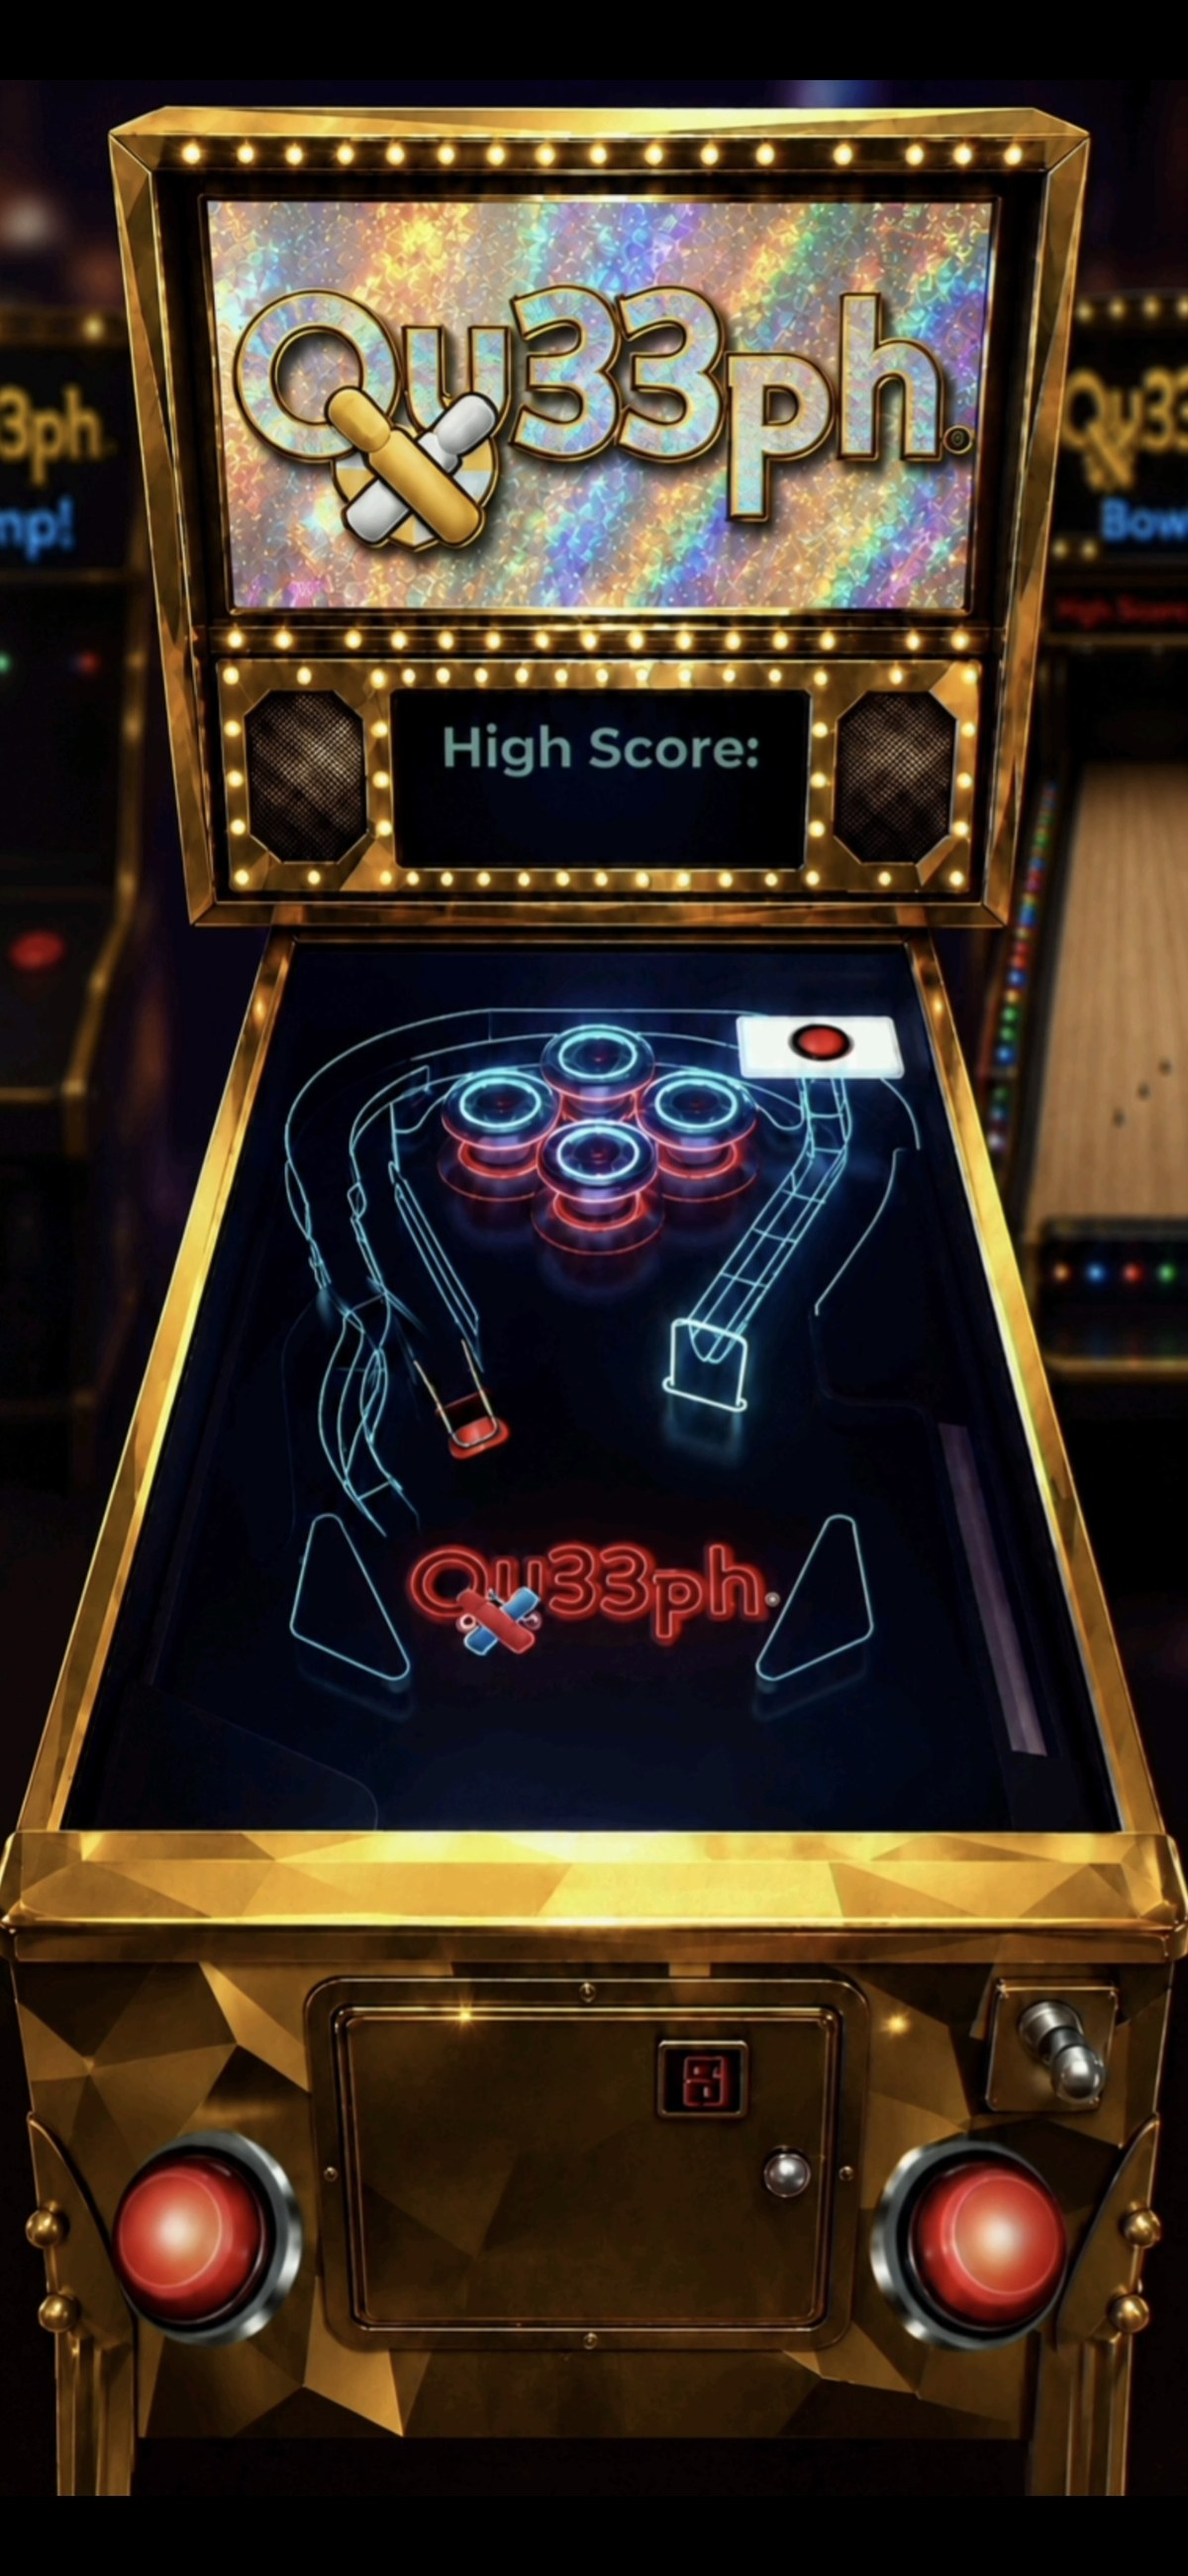
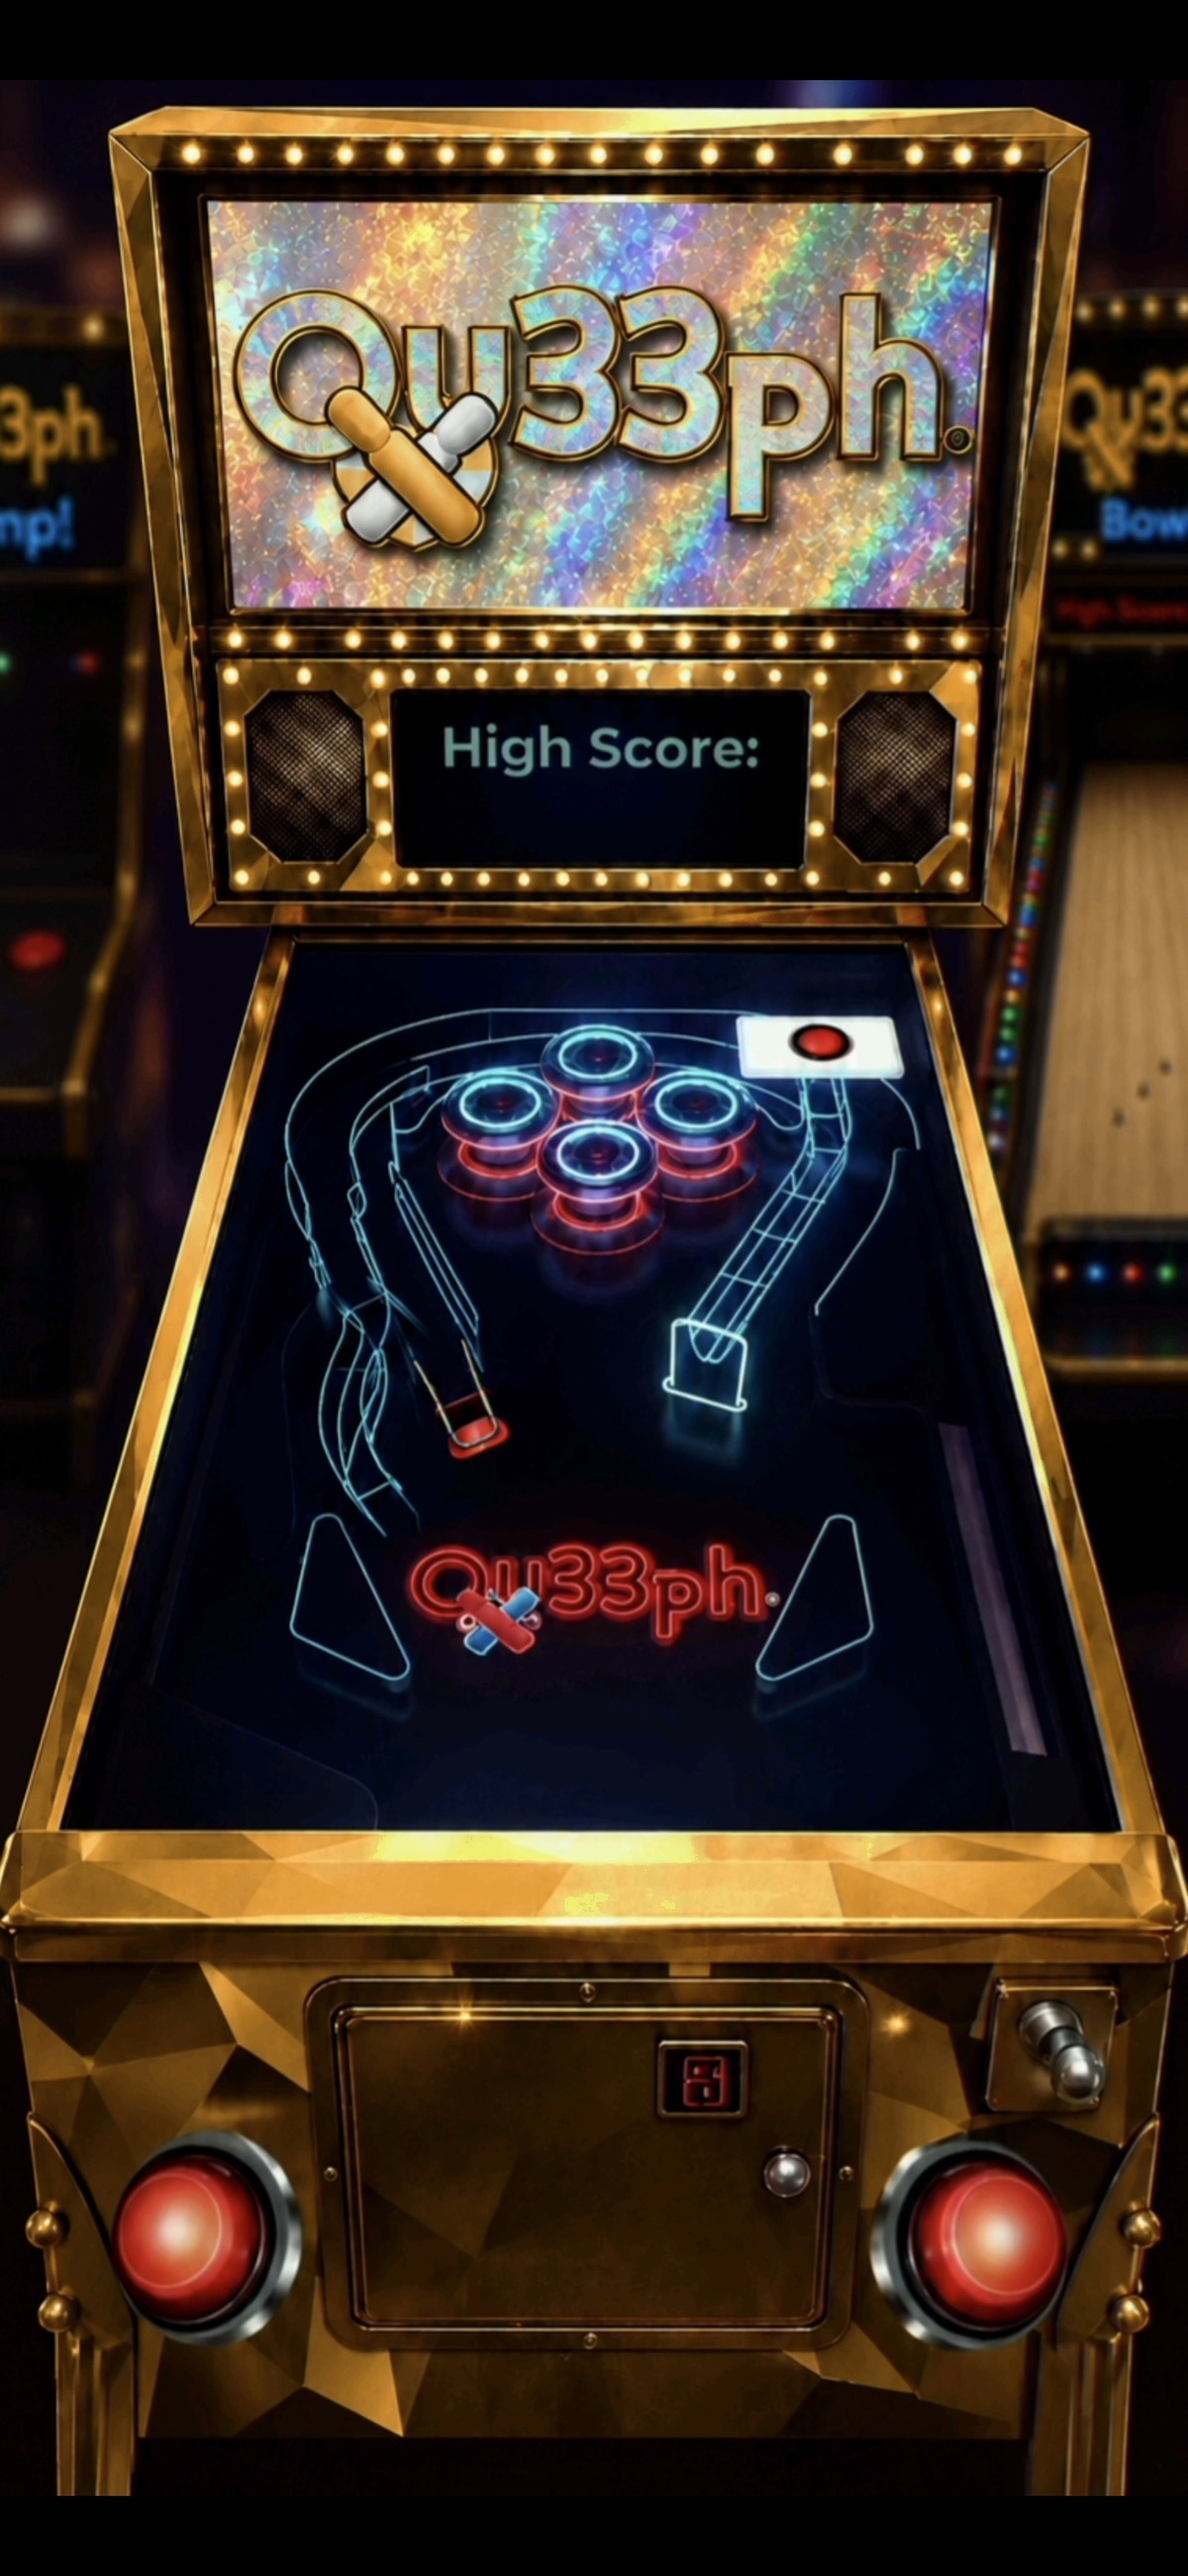
Add files via upload
updated overlays

diff --git a/index.html b/index.html
@@ -692,7 +692,7 @@
   </style>
 </head>
 <body>
-<div id="verBadge" style="position:fixed;bottom:6px;right:8px;font-family:Helvetica,Arial,sans-serif;font-size:10px;color:#444;z-index:99999;letter-spacing:1px;pointer-events:none;">v375</div>
+<div id="verBadge" style="position:fixed;bottom:6px;right:8px;font-family:Helvetica,Arial,sans-serif;font-size:10px;color:#444;z-index:99999;letter-spacing:1px;pointer-events:none;">v377</div>
 
 <canvas id="game"></canvas>
 
@@ -739,8 +739,8 @@
 </div>
 
 <div id="arcadeMenu" style="display:none; position:absolute;top:0;left:0;width:100%;height:100%;background:#05050a;flex-direction:column;align-items:center;justify-content:center;z-index:100;box-sizing:border-box;padding:20px;">
-  <img id="arcadeLogo" src="arcadelogo.png?v=375" alt="Qu33ph Arcade"
-       style="width:min(300px,72vw);height:auto;display:block;margin:0 auto 12px;pointer-events:none;"
+  <img id="arcadeLogo" src="arcadelogo.png?v=377" alt="Qu33ph Arcade"
+       style="width:min(248px,56vw);height:auto;display:block;margin:4px auto 12px;pointer-events:none;"
        onerror="this.style.display='none'">
   <div class="cab-row">
     <div class="cab-card" id="cabJump" onclick="launchPfGame()"><img src="qu33phjump.png" onerror="this.style.opacity=0.2"><div class="cab-label">QU33PH JUMP</div></div>
@@ -757,7 +757,7 @@
 </div>
 
 <div id="pinballScreen" oncontextmenu="return false" style="display:none;position:absolute;top:0;left:0;width:100%;height:100%;background:#0a0818;z-index:110;overflow:hidden;touch-action:none;user-select:none;-webkit-user-select:none;">
-  <img id="pinballBg" src="pinball.jpg?v=362" draggable="false" style="position:absolute;top:0;left:0;width:100%;height:100%;object-fit:contain;pointer-events:none;" onerror="this.style.opacity=0.12">
+  <img id="pinballBg" src="pinball.jpg?v=377" draggable="false" style="position:absolute;top:0;left:0;width:100%;height:100%;object-fit:contain;pointer-events:none;" onerror="this.style.opacity=0.12">
   <div id="pbBenday"></div>
   <canvas id="pinballCanvas" style="position:absolute;top:0;left:0;display:block;"></canvas>
   <button class="back-tl" id="pbPauseBtn" onclick="pbBack()" style="position:absolute;top:8px;left:10px;z-index:6;background:rgba(8,9,16,0.82);border:1px solid rgba(255,255,255,0.4);color:#fff;font-family:Helvetica,Arial,sans-serif;font-size:12px;font-weight:bold;letter-spacing:1px;padding:6px 12px;border-radius:8px;">← BACK</button>
@@ -885,7 +885,7 @@
     <button onclick="returnToArcade()" class="mk-btn flip">RETURN TO ARCADE</button>
     <button onclick="arcadeToMenu()" class="mk-btn">MAIN MENU</button>
   </div>
-  <img id="platformerBg" src="platformeroverlay.jpg?v=375" draggable="false" style="position:absolute;top:0;left:0;width:100%;height:100%;object-fit:contain;pointer-events:none;user-select:none;-webkit-user-select:none;-webkit-touch-callout:none;" onerror="this.style.opacity=0.15">
+  <img id="platformerBg" src="platformeroverlay.jpg?v=377" draggable="false" style="position:absolute;top:0;left:0;width:100%;height:100%;object-fit:contain;pointer-events:none;user-select:none;-webkit-user-select:none;-webkit-touch-callout:none;" onerror="this.style.opacity=0.15">
   <canvas id="platformerCanvas" style="position:absolute;background:#0a0f1e;border-radius:2px;"></canvas>
   <div id="pfLeftBtn" style="position:absolute;border-radius:50%;z-index:4;-webkit-tap-highlight-color:transparent;user-select:none;-webkit-user-select:none;-webkit-touch-callout:none;touch-action:none;touch-action:none;"></div>
   <div id="pfRightBtn" style="position:absolute;border-radius:50%;z-index:4;-webkit-tap-highlight-color:transparent;user-select:none;-webkit-user-select:none;-webkit-touch-callout:none;touch-action:none;touch-action:none;"></div>
@@ -4779,15 +4779,15 @@ function showArcadeMenu(){
 function arcadeBack(){ document.getElementById("arcadeMenu").style.display="none"; showTitle(); }
 function arcadeComingSoon(){ try{ haptic([20,30,20]); }catch(e){} }
 function launchPfGame(){ document.getElementById("arcadeMenu").style.display="none"; showCharSelect(); }
-function launchBowling(){ try{pfMusicStop();}catch(e){} document.getElementById("arcadeMenu").style.display="none"; var s=document.getElementById("bowlingScreen"); s.style.display="block"; var f=document.getElementById("bowlingFrame"); var _t=(typeof styleOf==="function"?styleOf():currentTheme); f.setAttribute("src","bowling.html?v=375&theme="+encodeURIComponent(_t)); arcadeGame="bowling"; try{ haptic(10); }catch(e){} }
+function launchBowling(){ try{pfMusicStop();}catch(e){} document.getElementById("arcadeMenu").style.display="none"; var s=document.getElementById("bowlingScreen"); s.style.display="block"; var f=document.getElementById("bowlingFrame"); var _t=(typeof styleOf==="function"?styleOf():currentTheme); f.setAttribute("src","bowling.html?v=377&theme="+encodeURIComponent(_t)); arcadeGame="bowling"; try{ haptic(10); }catch(e){} }
 function bowlingBack(){ var f=document.getElementById("bowlingFrame"); try{ f.setAttribute("src","about:blank"); }catch(e){} document.getElementById("bowlingScreen").style.display="none"; showArcadeMenu(); }
 function launchFidget(){ try{pfMusicStop();}catch(e){} document.getElementById("arcadeMenu").style.display="none"; var s=document.getElementById("fidgetScreen"); s.style.display="block"; var f=document.getElementById("fidgetFrame"); var _t=(typeof styleOf==="function"?styleOf():currentTheme); f.setAttribute("src","fidget.html?theme="+encodeURIComponent(_t)); arcadeGame="fidget"; try{ haptic(10); }catch(e){} }
 function fidgetBack(){ var f=document.getElementById("fidgetFrame"); try{ f.setAttribute("src","about:blank"); }catch(e){} document.getElementById("fidgetScreen").style.display="none"; showArcadeMenu(); }
-function launchMini(){ try{pfMusicStop();}catch(e){} document.getElementById("arcadeMenu").style.display="none"; document.getElementById("miniScreen").style.display="block"; var f=document.getElementById("miniFrame"); var _t=(typeof styleOf==="function"?styleOf():currentTheme); f.setAttribute("src","mini.html?v=375&theme="+encodeURIComponent(_t)); arcadeGame="mini"; try{ haptic(10); }catch(e){} }
+function launchMini(){ try{pfMusicStop();}catch(e){} document.getElementById("arcadeMenu").style.display="none"; document.getElementById("miniScreen").style.display="block"; var f=document.getElementById("miniFrame"); var _t=(typeof styleOf==="function"?styleOf():currentTheme); f.setAttribute("src","mini.html?v=377&theme="+encodeURIComponent(_t)); arcadeGame="mini"; try{ haptic(10); }catch(e){} }
 function miniBack(){ var f=document.getElementById("miniFrame"); try{ f.setAttribute("src","about:blank"); }catch(e){} document.getElementById("miniScreen").style.display="none"; showArcadeMenu(); }
-function launchStack(){ try{pfMusicStop();}catch(e){} document.getElementById("arcadeMenu").style.display="none"; var sc=document.getElementById("stackScreen"); sc.style.display="block"; var f=document.getElementById("stackFrame"); var _t=(typeof styleOf==="function"?styleOf():currentTheme); f.setAttribute("src","stack.html?v=375&theme="+encodeURIComponent(_t)); arcadeGame="stack"; try{ haptic(10); }catch(e){} }
+function launchStack(){ try{pfMusicStop();}catch(e){} document.getElementById("arcadeMenu").style.display="none"; var sc=document.getElementById("stackScreen"); sc.style.display="block"; var f=document.getElementById("stackFrame"); var _t=(typeof styleOf==="function"?styleOf():currentTheme); f.setAttribute("src","stack.html?v=377&theme="+encodeURIComponent(_t)); arcadeGame="stack"; try{ haptic(10); }catch(e){} }
 function stackBack(){ var f=document.getElementById("stackFrame"); try{ f.setAttribute("src","about:blank"); }catch(e){} document.getElementById("stackScreen").style.display="none"; showArcadeMenu(); }
-function launchSkee(){ try{pfMusicStop();}catch(e){} document.getElementById("arcadeMenu").style.display="none"; var sc=document.getElementById("skeeScreen"); sc.style.display="block"; var f=document.getElementById("skeeFrame"); var _t=(typeof styleOf==="function"?styleOf():currentTheme); f.setAttribute("src","qu33phball.html?v=375&theme="+encodeURIComponent(_t)); arcadeGame="skee"; try{ haptic(10); }catch(e){} }
+function launchSkee(){ try{pfMusicStop();}catch(e){} document.getElementById("arcadeMenu").style.display="none"; var sc=document.getElementById("skeeScreen"); sc.style.display="block"; var f=document.getElementById("skeeFrame"); var _t=(typeof styleOf==="function"?styleOf():currentTheme); f.setAttribute("src","qu33phball.html?v=377&theme="+encodeURIComponent(_t)); arcadeGame="skee"; try{ haptic(10); }catch(e){} }
 function skeeBack(){ var f=document.getElementById("skeeFrame"); try{ f.setAttribute("src","about:blank"); }catch(e){} document.getElementById("skeeScreen").style.display="none"; showArcadeMenu(); }
 function orientFlipIcon(im){
   im = im || document.querySelector("#cabFlip img"); if(!im) return;
@@ -4798,9 +4798,9 @@ function orientFlipIcon(im){
   };
   if(im.complete && im.naturalWidth) set(); else im.onload=set;
 }
-function launchFlip(){ try{pfMusicStop();}catch(e){} document.getElementById("arcadeMenu").style.display="none"; var sc=document.getElementById("flipScreen"); sc.style.display="block"; var f=document.getElementById("flipFrame"); var _t=(typeof styleOf==="function"?styleOf():currentTheme); f.setAttribute("src","flip.html?v=375&theme="+encodeURIComponent(_t)); arcadeGame="flip"; try{ haptic(10); }catch(e){} }
+function launchFlip(){ try{pfMusicStop();}catch(e){} document.getElementById("arcadeMenu").style.display="none"; var sc=document.getElementById("flipScreen"); sc.style.display="block"; var f=document.getElementById("flipFrame"); var _t=(typeof styleOf==="function"?styleOf():currentTheme); f.setAttribute("src","flip.html?v=377&theme="+encodeURIComponent(_t)); arcadeGame="flip"; try{ haptic(10); }catch(e){} }
 function flipBack(){ var f=document.getElementById("flipFrame"); try{ f.setAttribute("src","about:blank"); }catch(e){} document.getElementById("flipScreen").style.display="none"; showArcadeMenu(); }
-function launchDozer(){ try{pfMusicStop();}catch(e){} document.getElementById("arcadeMenu").style.display="none"; var sc=document.getElementById("dozerScreen"); sc.style.display="block"; var f=document.getElementById("dozerFrame"); var _t=(typeof styleOf==="function"?styleOf():currentTheme); f.setAttribute("src","dozer.html?v=375&theme="+encodeURIComponent(_t)); arcadeGame="dozer"; try{ haptic(10); }catch(e){} }
+function launchDozer(){ try{pfMusicStop();}catch(e){} document.getElementById("arcadeMenu").style.display="none"; var sc=document.getElementById("dozerScreen"); sc.style.display="block"; var f=document.getElementById("dozerFrame"); var _t=(typeof styleOf==="function"?styleOf():currentTheme); f.setAttribute("src","dozer.html?v=377&theme="+encodeURIComponent(_t)); arcadeGame="dozer"; try{ haptic(10); }catch(e){} }
 function dozerBack(){ var f=document.getElementById("dozerFrame"); try{ f.setAttribute("src","about:blank"); }catch(e){} document.getElementById("dozerScreen").style.display="none"; showArcadeMenu(); }
 function showCharSelect(){ pfMusicStop(); showPlatformer("charselect"); }
 function csNav(dir){ pfCharIdx=(pfCharIdx+dir+PF_CHARS.length)%PF_CHARS.length; try{haptic(6);}catch(e){} }
@@ -4970,7 +4970,7 @@ function showPlatformer(game){
   arcadeGame = game||"jump";
   if(arcadeGame!=="jump") pfMusicStop();
   var nav = (arcadeGame==="levelselect"||arcadeGame==="binder"||arcadeGame==="fusepick"||arcadeGame==="jumpmenu"||arcadeGame==="charselect");
-  var _bg=document.getElementById("platformerBg"); if(_bg) _bg.src = (arcadeGame==="dream"||(nav&&arcadeGame!=="jumpmenu"&&arcadeGame!=="charselect"))?"dreamlingoverlay.png":"platformeroverlay.jpg?v=375";
+  var _bg=document.getElementById("platformerBg"); if(_bg) _bg.src = (arcadeGame==="dream"||(nav&&arcadeGame!=="jumpmenu"&&arcadeGame!=="charselect"))?"dreamlingoverlay.png":"platformeroverlay.jpg?v=377";
   document.getElementById("arcadeMenu").style.display="none";
   document.getElementById("titleScreen").style.display="none";
   var tc=document.getElementById("titleCoins"); if(tc) tc.style.display="none";
@@ -5562,7 +5562,7 @@ const jgJumpL=new Image(); jgJumpL.src="jump_jumpL.png";  // airborne, facing le
 // ── playable characters ──────────────────────────────────────────────────
 // Qu33ph has hand-drawn left AND right art. The other three only have right-facing
 // art, so they get mirrored on the canvas when facing left.
-var CHAR_V="375";   // bump when character art is replaced, so browsers drop the cached copy
+var CHAR_V="377";   // bump when character art is replaced, so browsers drop the cached copy
 function CIMG(src){ var i=new Image(); i.src=src+"?v="+CHAR_V; return i; }
 var PF_CHARS=[
   { id:"qu33ph", name:"QU33PH",     cls:"human", speed:1,   jump:1,     grav:1,    airJumps:0, note:"",

diff --git a/bowling.html b/bowling.html
@@ -14,7 +14,7 @@
 </head>
 <body>
 <div id="wrap">
-  <img id="bg" src="bowling.jpg?v=374" draggable="false" onerror="this.style.opacity=0.12">
+  <img id="bg" src="bowling.jpg?v=377" draggable="false" onerror="this.style.opacity=0.12">
   <canvas id="cv"></canvas>
 </div>
 <script>
